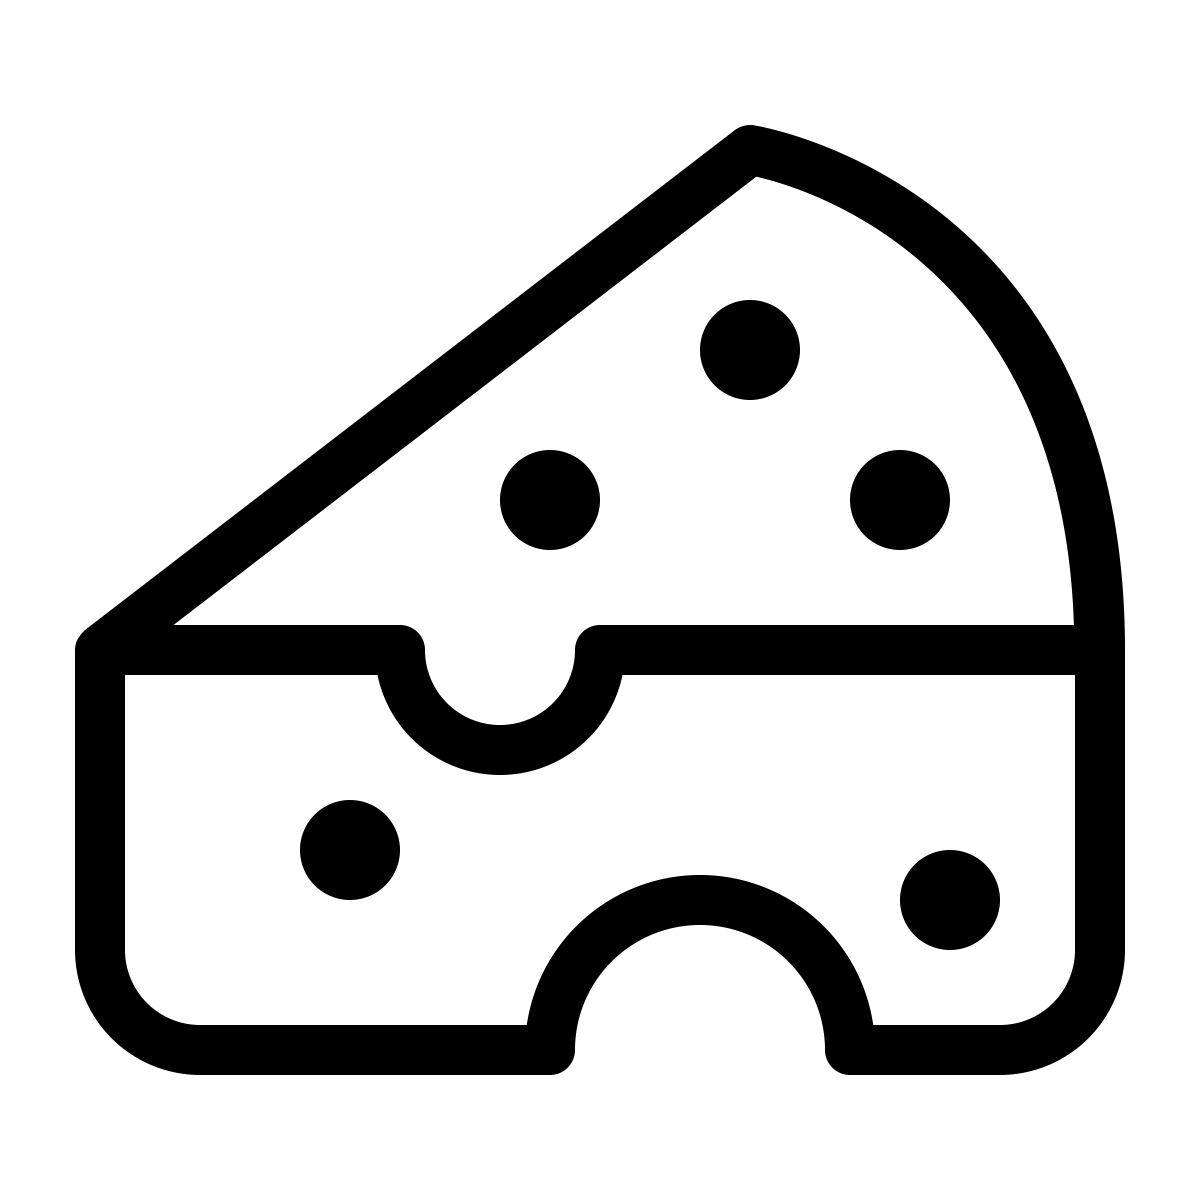
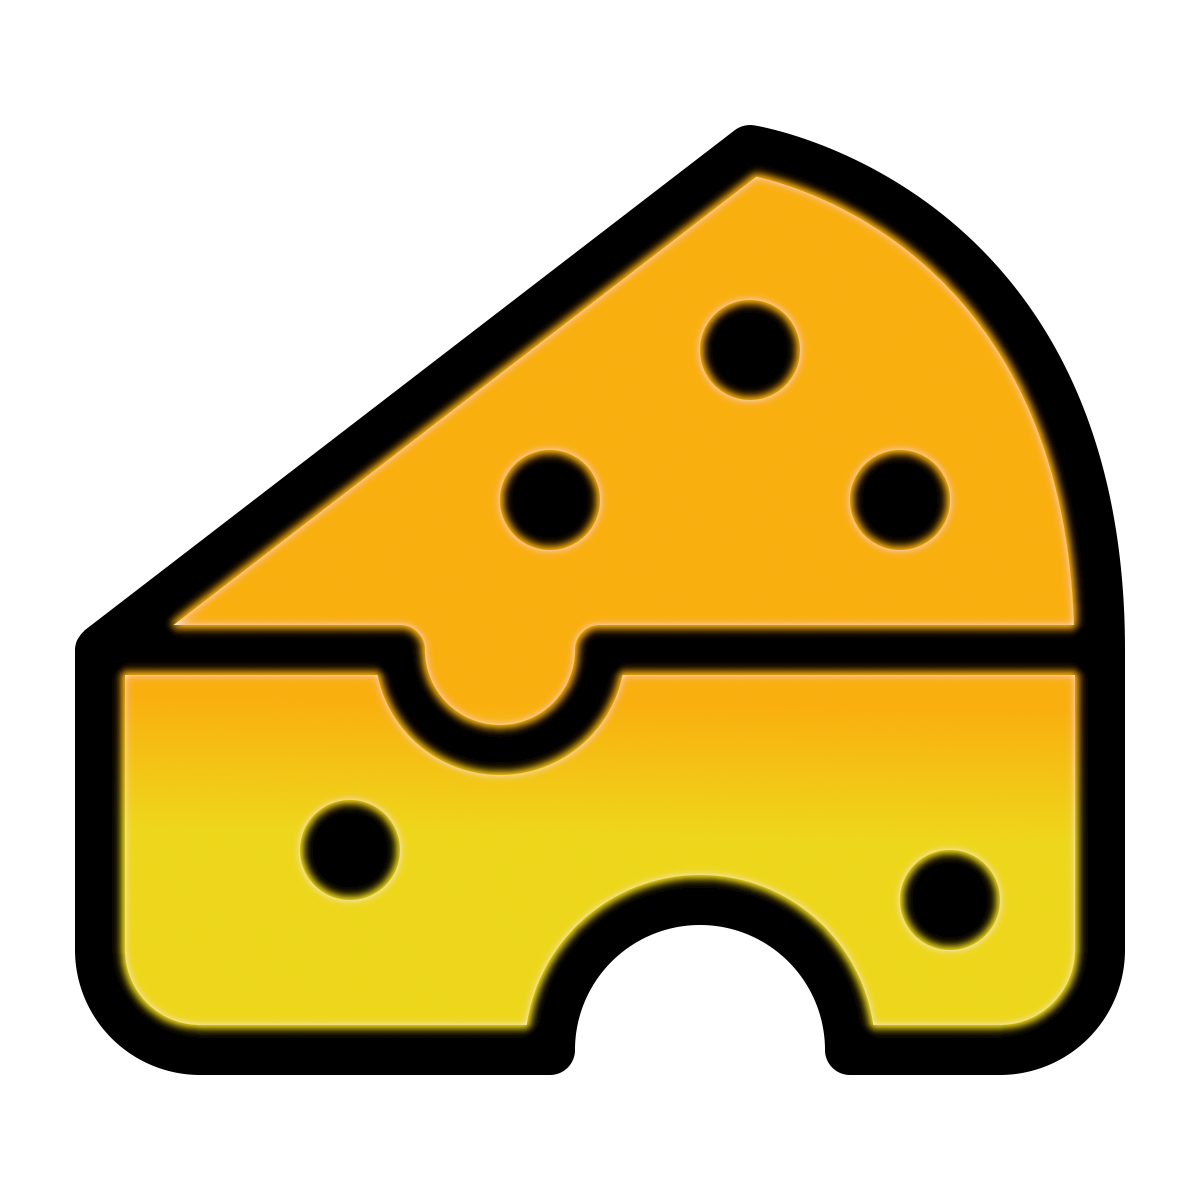
love

diff --git a/Types/Floater.js b/Types/Floater.js
@@ -9,6 +9,7 @@ function Floater(spec) {
     screen,
     fixed = false,
     fixedRotation = false,
+    rotationCoefficient = 0.03,
     positionOffset = Vector2(),
   } = spec
 
@@ -26,15 +27,36 @@ function Floater(spec) {
   const debugVectorTerminus = Vector2()
 
   const slope = Vector2()
+  const direction = Vector2()
+
+  const smoothDirection = Vector2(1, 0)
   
   function tick() {
     if (!world.running || fixed) {
-      return
+      
+    }
+    else {
+      integrateRK4()
     }
 
-    integrateRK4()
+    if (!fixedRotation) {
+      field.sampleAt(transform.position, velocity)
+
+      if (velocity.x == 0 && velocity.y == 0)
+        direction.set(smoothDirection)
+      else {
+        direction.set(velocity)
+        direction.normalize()
+      }
+
+      smoothDirection.lerp(direction, rotationCoefficient)
+      smoothDirection.normalize()
+
+      transform.rotation = Math.atan2(smoothDirection.y, smoothDirection.x)
+      console.log('Setting floater velocity to ', velocity.toString())
+    }
+
     return
-    
   }
 
   function integrateEuler() {

diff --git a/Types/Structs/EvaluatorBundle.js b/Types/Structs/EvaluatorBundle.js
@@ -16,7 +16,7 @@ function EvaluatorBundle(spec) {
   const evaluators = []
 
   let mode = _.reduce(latexs, (r, v) => v == null ? r+1 : r, 0)
-  for (latex of latexs) {
+  _.each(latexs, (latex, i) => {
     if (latex == null) {
       mode--
       // continue
@@ -29,9 +29,10 @@ function EvaluatorBundle(spec) {
       scope,
       level,
       mode,
-      markDirty,
+      final: i == latexs.length-1,
+      onFinalDirty,
     }))
-  }
+  })
 
   const finalEvaluator = _.last(evaluators.filter(v => v.expression != ''))
 
@@ -139,6 +140,10 @@ function EvaluatorBundle(spec) {
       externalVariables,
       scope: _.cloneDeep(scope),
     })
+  }
+
+  function onFinalDirty() {
+    markDirty()
   }
 
   return {

diff --git a/Types/Entities/World.js b/Types/Entities/World.js
@@ -228,7 +228,14 @@ function World(spec) {
   }
 
   function modify() {
-    editBundle = bundle.clone()
+    if (self.mode == 2) {
+      buildBundle = bundle.clone()
+      editBundle = bundle.clone()
+    }
+    else if (self.mode == 1) {
+      editBundle = bundle.clone()
+    }
+
     diverged = getDiverged()
     ui.setShowRestartButton(diverged && self.mode == 1)
   }
@@ -289,14 +296,6 @@ function World(spec) {
       },
       level,
     })
-
-    if (self.mode == 2) {
-      buildBundle = bundle.clone()
-      editBundle = bundle.clone()
-    }
-    else if (self.mode == 1) {
-      editBundle = bundle.clone()
-    }
 
     modify()
 

diff --git a/Types/Structs/Evaluator.js b/Types/Structs/Evaluator.js
@@ -12,7 +12,8 @@ function Evaluator(spec) {
 
     mode,
     level,
-    markDirty,
+    final = false,
+    onFinalDirty = null,
   } = spec
 
   let {
@@ -316,10 +317,11 @@ function Evaluator(spec) {
     tree = math.parse(expression)
     evaluateIfDirty()
 
-    if (markDirty) {
-      // console.log('Marking bundle dirty')
-      markDirty()
-    }
+    if (final)
+      onFinalDirty()
+      
+    for (dependent of dependents)
+      dependent.markChanged(name)
   }
 
   function toString() {

diff --git a/Types/Entities/Victory.js b/Types/Entities/Victory.js
@@ -34,8 +34,8 @@ function Victory(spec) {
     ctx.font = s*0.25+'px Orbitron'
     ctx.fillText('VICTORY', screenOrigin.x, screenOrigin.y-s*0.05)
 
-    ctx.font = s*0.15+'px Orbitron'
-    ctx.fillText(math.truncate(winDuration, 1)+' SECONDS', screenOrigin.x, screenOrigin.y+s*0.15)
+    // ctx.font = s*0.15+'px Orbitron'
+    // ctx.fillText(math.truncate(winDuration, 1)+' SECONDS', screenOrigin.x, screenOrigin.y+s*0.15)
   }
 
   function show(duration, length) {

diff --git a/Types/Entities/Goals/FixedGoal.js b/Types/Entities/Goals/FixedGoal.js
@@ -6,7 +6,7 @@ function FixedGoal(spec) {
     camera,
     transform,
     ctx,
-    size = 0.1,
+    size = 0.2,
   } = Goal(spec, 'FixedGoal')
   
   const shape = Rect({
@@ -17,7 +17,7 @@ function FixedGoal(spec) {
 
   const sprite = Sprite({
     asset: 'images.cheese',
-    size: size*4,
+    size: size*2,
     parent: self,
   })
   
